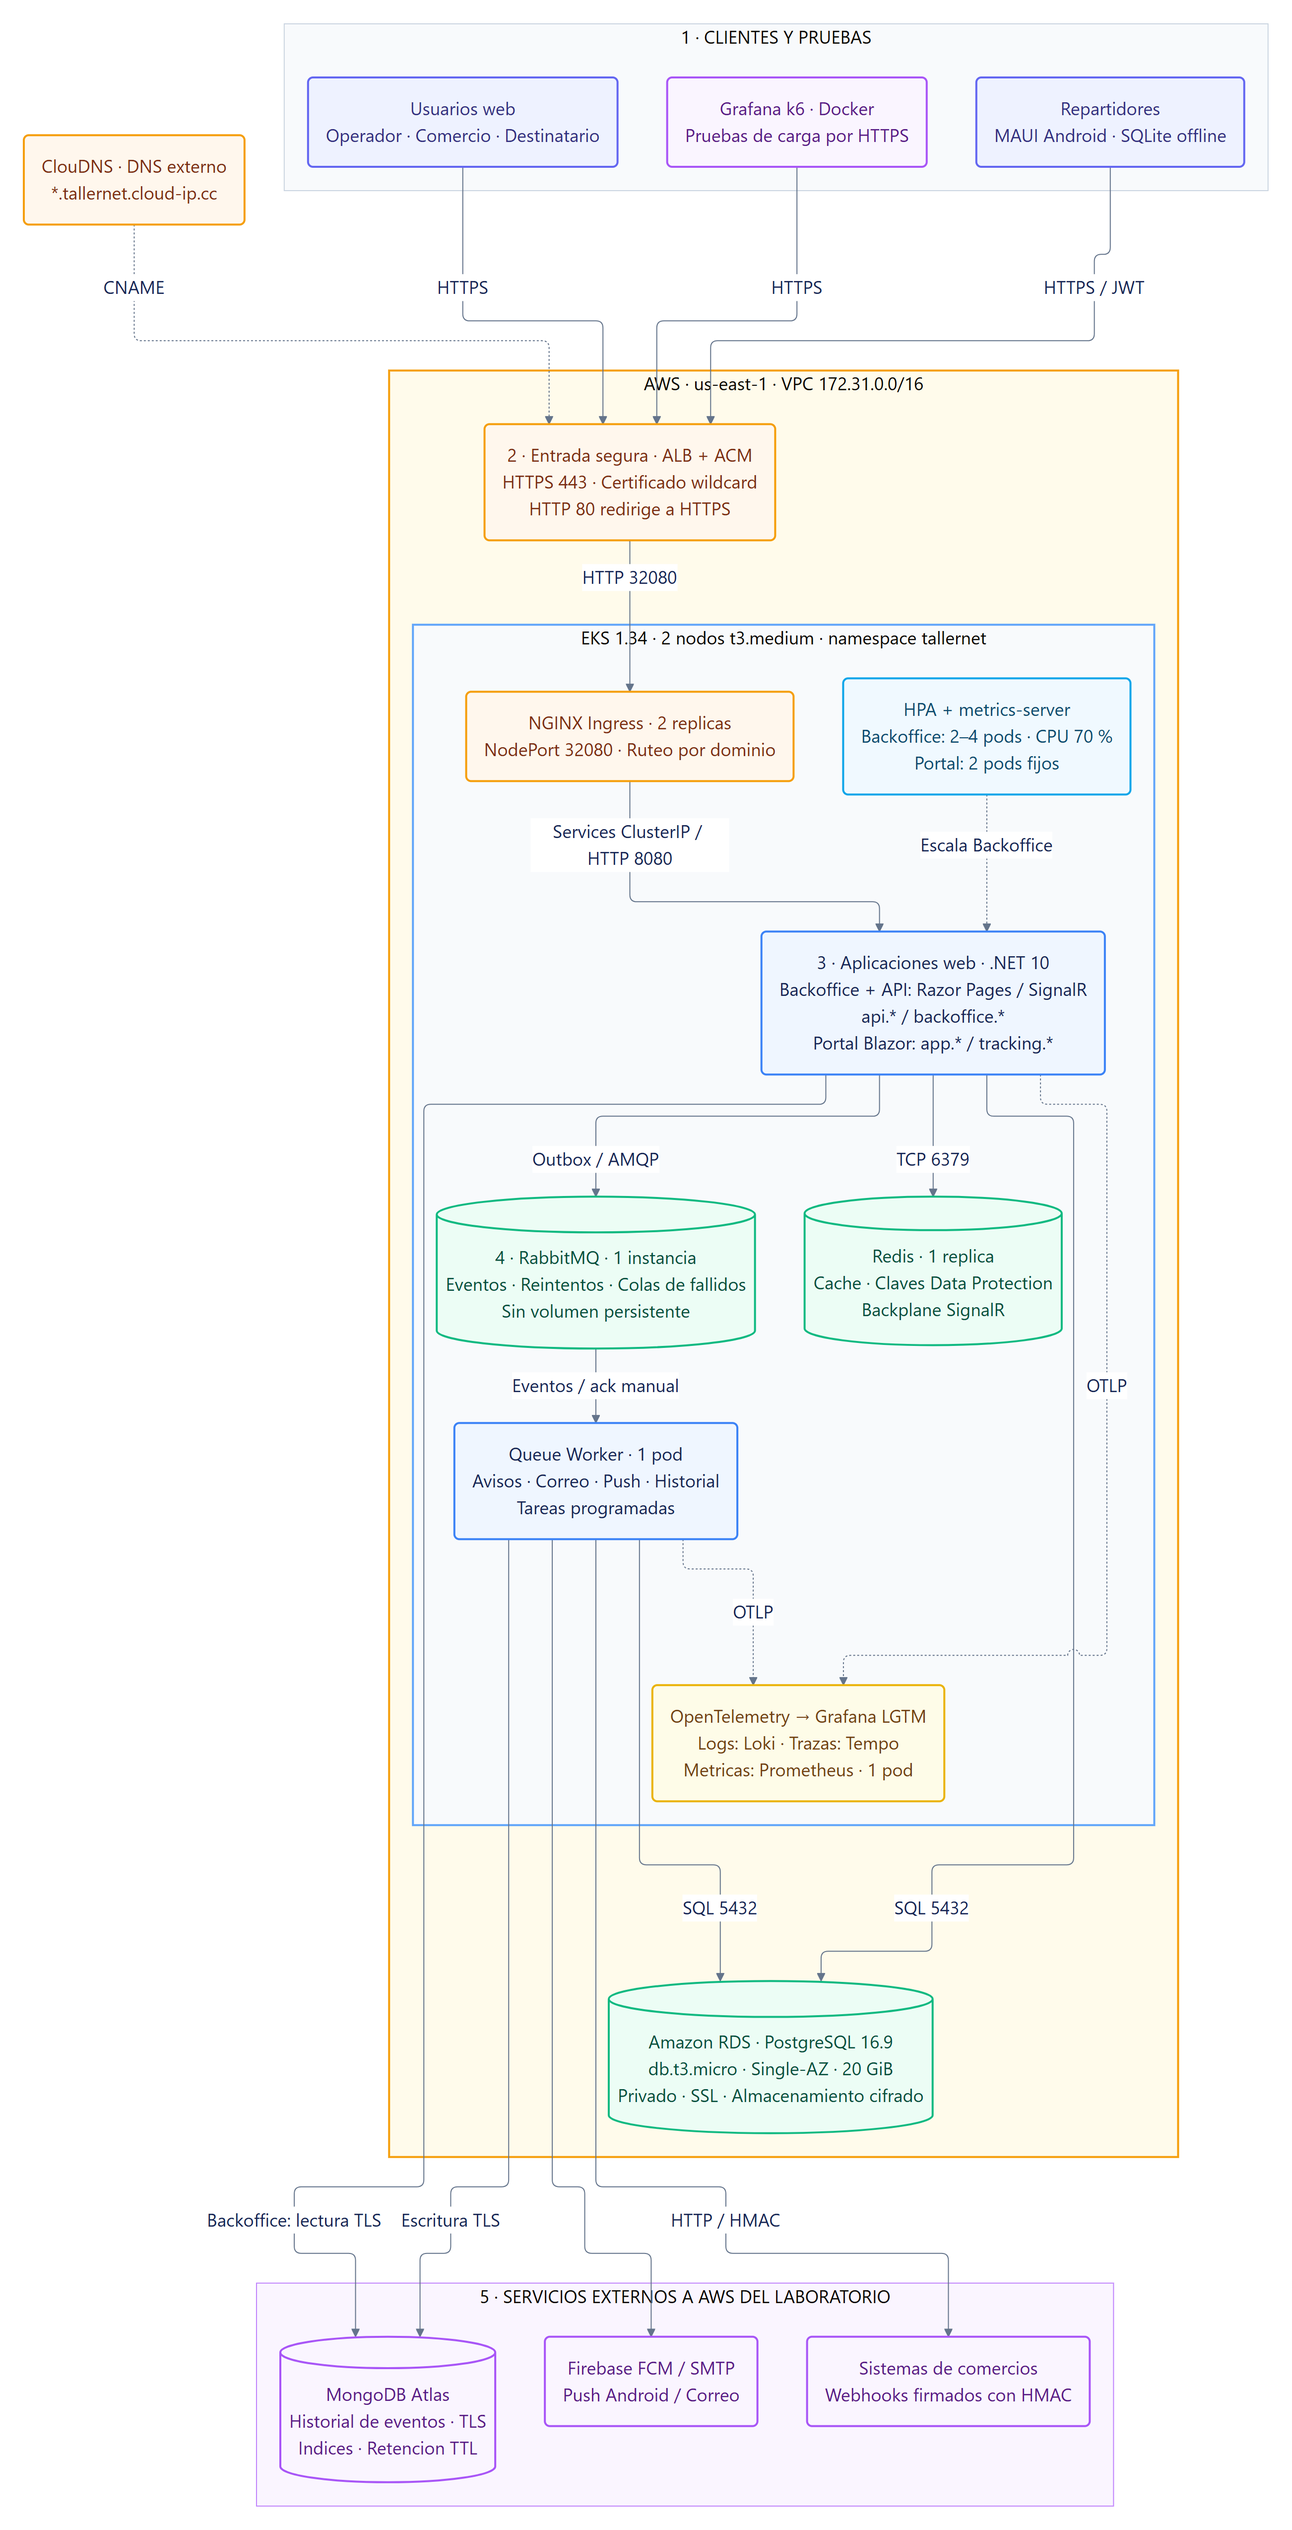
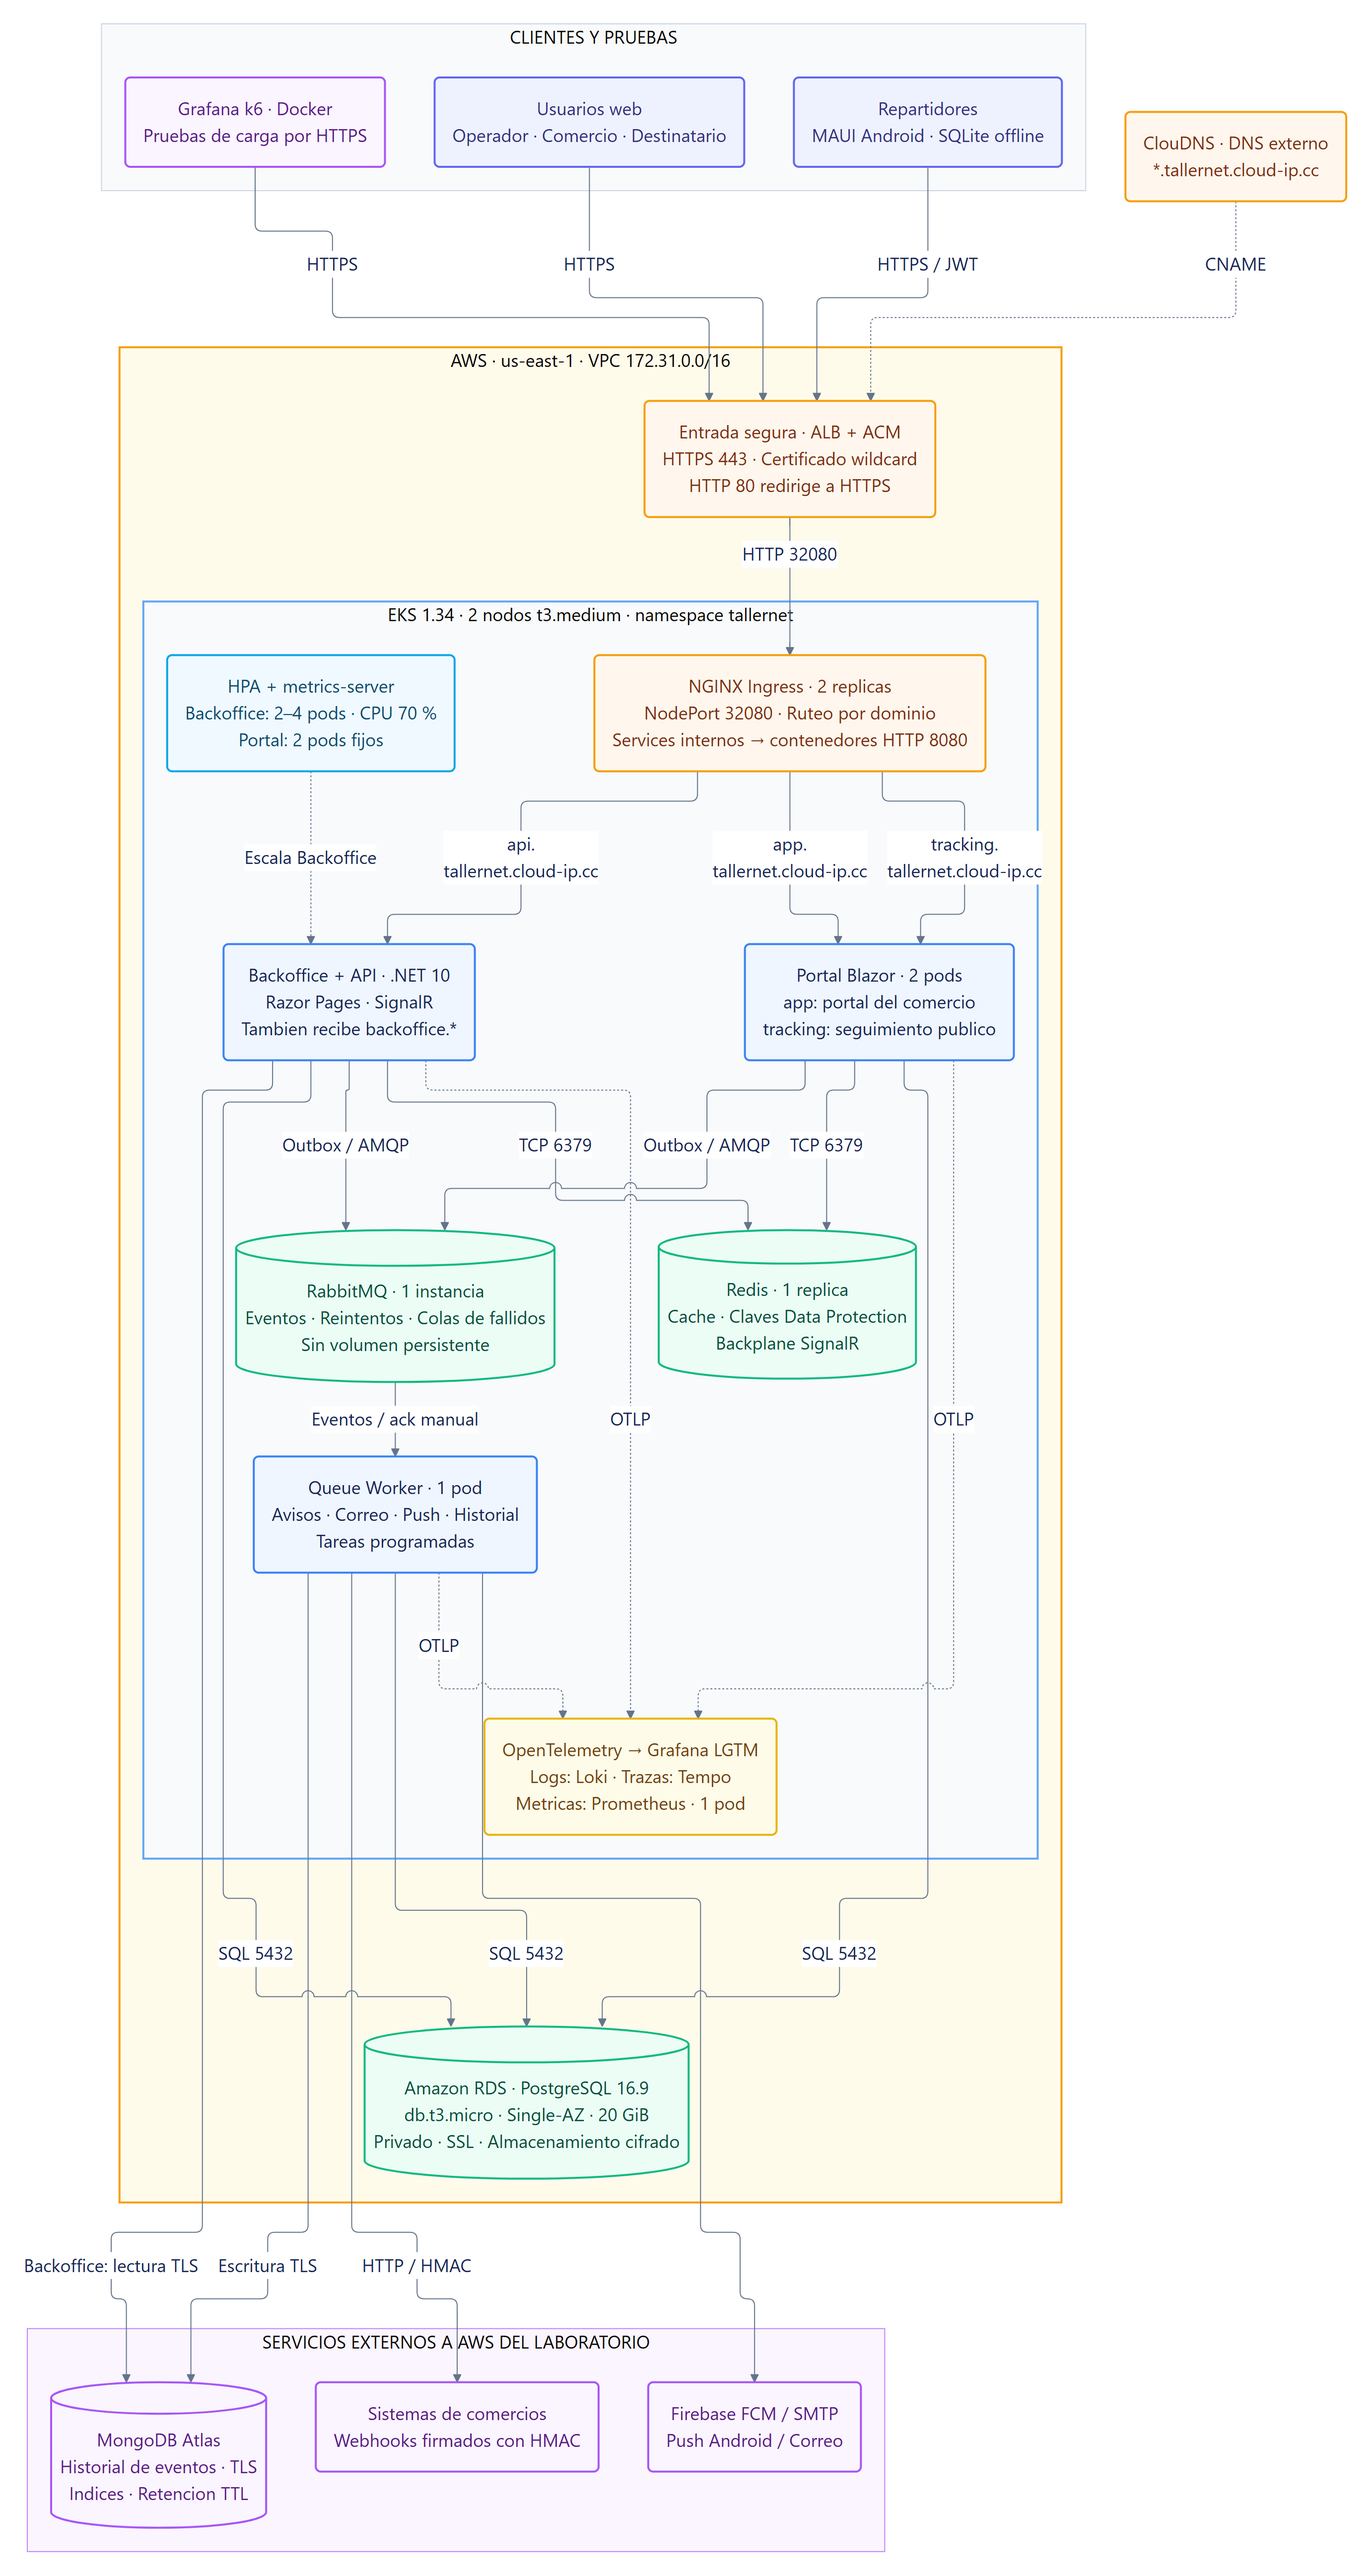
Infraestructura

diff --git a/README.md b/README.md
@@ -11,7 +11,7 @@ Portafolio Profesional | Tecnólogo en Tecnologías de la Información | Cloud &
 
 Los SVG deben conservar `font-family: "Segoe UI", Arial, sans-serif` en su regla raíz `#my-svg`: sus cajas de texto se calcularon con esa tipografía. Si se regeneran, comprobar ambos diagramas como imágenes y como archivos independientes para evitar etiquetas recortadas.
 
-La infraestructura se presenta de arriba hacia abajo: clientes, entrada, aplicaciones y mensajería, procesamiento y servicios externos. Backoffice y Portal comparten un bloque visual, no un Deployment; sus conexiones comunes se agrupan para evitar flechas repetidas. La lectura de Atlas corresponde al Backoffice. El HPA modifica pods, no nodos; las réplicas se indican como rango para no confundir el dibujo con un monitor en vivo. Fuente editable: [`NET/infraestructura.mmd`](NET/infraestructura.mmd).
+La infraestructura se presenta de arriba hacia abajo, sin numeración: clientes, entrada, aplicaciones y mensajería, procesamiento y servicios externos. NGINX muestra tres rutas explícitas: `api` hacia Backoffice/API, y `app` y `tracking` hacia Portal. El dominio adicional `backoffice` también llega al Backoffice. La lectura de Atlas corresponde al Backoffice. El HPA modifica pods, no nodos; las réplicas se indican como rango para no confundir el dibujo con un monitor en vivo. Fuente editable: [`NET/infraestructura.mmd`](NET/infraestructura.mmd).
 
 ## 🚀 Proyectos Destacados
 
